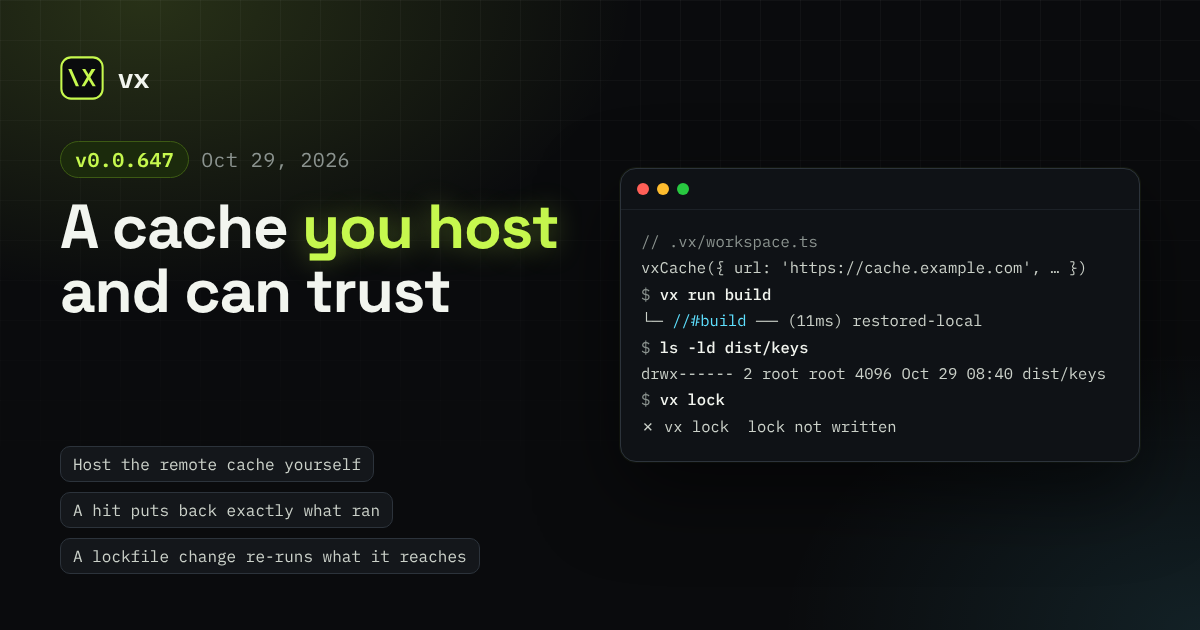
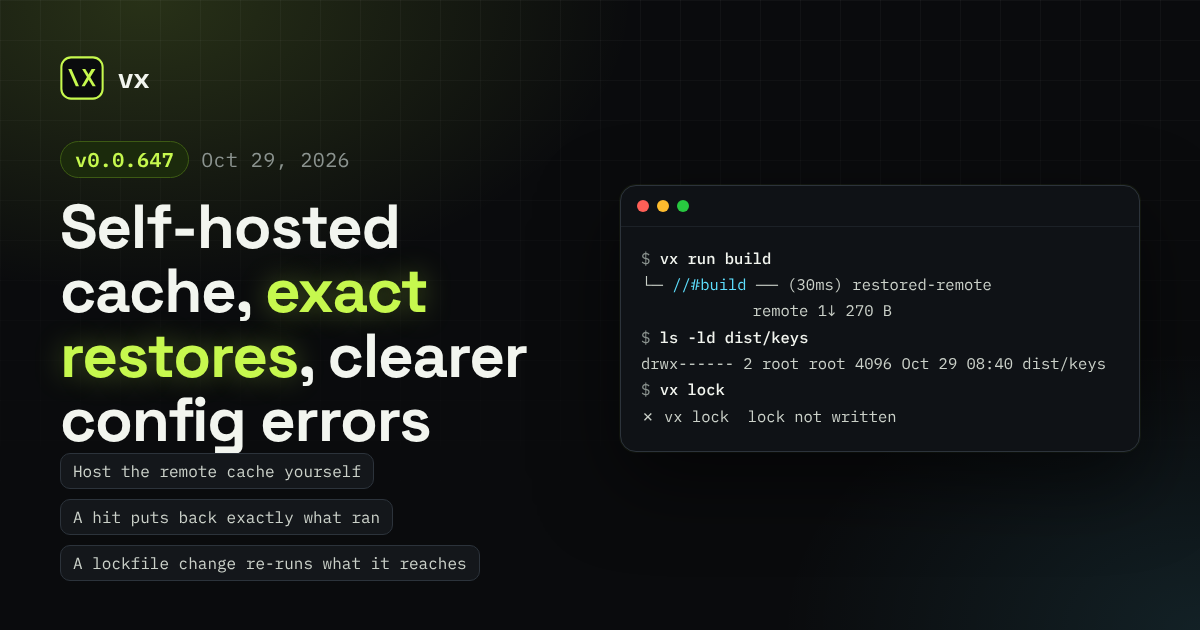
docs(vx-docs): name the whole release, show a real remote hit
Review asked for a title naming the whole release, a real remote hit
from a local vx-cache-server, How to update before Breaking changes,
the breaking list grouped into four points with Upgrading for the rest,
and the lockfile paragraph under 200 characters.

Claude-Session: https://claude.ai/code/session_01W6xuYaCkX1jpT9FftMDo4z

diff --git a/private/vx-docs/src/content/docs/releases/vx-0-0-647.md b/private/vx-docs/src/content/docs/releases/vx-0-0-647.md
@@ -1,5 +1,5 @@
 ---
-title: 'A cache you host and can trust'
+title: 'Self-hosted cache, exact restores, clearer config errors'
 date: 2026-10-29T12:00:00Z
 authors:
   - vzn
@@ -7,7 +7,7 @@ tags:
   - release
 cover:
   image: ../../../assets/blog/vx-0-0-647.png
-  alt: 'vx 0.0.647: A cache you host and can trust'
+  alt: 'vx 0.0.647: Self-hosted cache, exact restores, clearer config errors'
 excerpt: 'Host the remote cache in one bucket of your own, get back exactly what a task wrote, re-run what a lockfile change reaches, and see a config mistake refused with its fix.'
 ---
 
@@ -24,6 +24,7 @@ This release is breaking. Read the [breaking changes](#breaking-changes) first.
 - [A lockfile change re-runs what it reaches](#a-lockfile-change-re-runs-what-it-reaches)
 - [A config mistake is refused with its fix](#a-config-mistake-is-refused-with-its-fix)
 - [Other noteworthy changes](#other-noteworthy-changes)
+- [How to update](#how-to-update)
 - [Breaking changes](#breaking-changes)
 
 ## Host the remote cache yourself
@@ -35,6 +36,7 @@ flowchart LR
   P[pull request] -- "writes only its own ref" --> S
 ```
 
+Your CI runners and laptops share one cache, kept in a bucket you own.
 `@vzn/vx-cache-server` runs on Cloudflare Workers, Bun or Docker. Each
 CI job signs in with its own token, so no secret is stored.
 
@@ -52,6 +54,22 @@ export default defineWorkspace({
     }),
   ],
 })
+```
+
+A CI job on `main` fills it, and a laptop with an empty local cache
+reads the hit back:
+
+```sh frame="terminal"
+# CI job on main
+$ vx run build
+└─ //#build ── (12ms) success
+            remote 1↑ 270 B
+
+# laptop, empty local cache
+$ vx run build
+┌─ //#build > $ mkdir -p dist && cp src/*.ts dist/
+└─ //#build ── (30ms) restored-remote
+            remote 1↓ 270 B
 ```
 
 A 5xx or 429 from GitHub's token endpoint is tried again.
@@ -87,8 +105,9 @@ would run:
 ```
 
 `app` never names `lib`, but the root `package.json` installs it for
-every package, so an edit to `lib` selects `app` too. A pnpm catalog
-bump re-runs only the projects that use it. See
+every package, so an edit to `lib` selects `app` too.
+
+A pnpm catalog bump re-runs only the projects that use it. See
 [Lockfiles](../../docs/lockfiles/).
 
 ## A config mistake is refused with its fix
@@ -112,38 +131,22 @@ $ vx lock
 - A merge queue's run reads and writes the branch it merges into.
 - `exec.platforms` names the machines a task runs on.
 
-## Breaking changes
-
-- Every cached task misses once (`vx-cache-v50`, schema `v49`).
-- `vx cache clean --dry-run` → `--dry`; its JSON `dryRun` → `dry`.
-- `vx run --dry=text` → `--dry=pretty`.
-- A duration in `M` → refused; minutes are `m`.
-- `baseBranch: 'origin/main'` → `baseBranch: 'main'`.
-- A glob brace (`{src,lib}`) → each alternative read alone.
-- An `inputs.tasks` entry matching no dependency → refused.
-- A dependency rule selector `--filter` misreads → refused.
-- `inputs.runtime` probes → the essential env only; name more in
-  `inputs.env`.
-- `@vzn/vx-schedule-history` → `@vzn/vx-history`;
-  `scheduleHistoryPlugin()` → `vxHistory()`; `ScheduleHistoryOptions`
-  → `VxHistoryOptions`; its `criticalPath` → `@vzn/vx`.
-- `vxHistory({ defaultBranch })` → `baseBranch`; timings in the remote
-  cache → `vxHistory({ url })`.
-- `github({ checks, checkName, fetchFn, append, sizeOf })` → removed.
-- `otel({ post })` → removed.
-- `turboCache({ apiUrl })` → `turboCache({ url })`;
-  `nxCache({ server, accessToken })` → `nxCache({ url, token })`.
-- `VX_REAPI_*` variables → `reapi()` options.
-- Plugin API: `RunResult.signal` → `string | number`; a remote cache's
-  `put` → `void | false`; a cache's `probeFirst` → removed.
-- Plugin API: `RunOptions.remoteRequested` → the setting's name;
-  `FingerprintClaim.extraFiles(file, bytes)` → `(file, bytes, ctx)`, may
-  return a promise.
-
-See also [Upgrading](../../guides/upgrading/).
-
 ## How to update
 
 ```sh frame="terminal"
 vx upgrade
 ```
+
+## Breaking changes
+
+- Every cached task misses once (`vx-cache-v50`, schema `v49`).
+- CLI and config: `--dry-run` → `--dry`, `--dry=text` → `--dry=pretty`;
+  `baseBranch: 'origin/main'` and a `5M` duration are refused.
+- Plugins: `@vzn/vx-schedule-history` → `@vzn/vx-history`;
+  `turboCache()` and `nxCache()` take `url` and `token`; `reapi()` reads
+  no `VX_REAPI_*` variable; `github({ checks })` and `otel({ post })` →
+  removed.
+- Plugin API: `RunResult.signal` may be a number;
+  `FingerprintClaim.extraFiles` takes a `ctx`.
+
+See also [Upgrading](../../guides/upgrading/).
